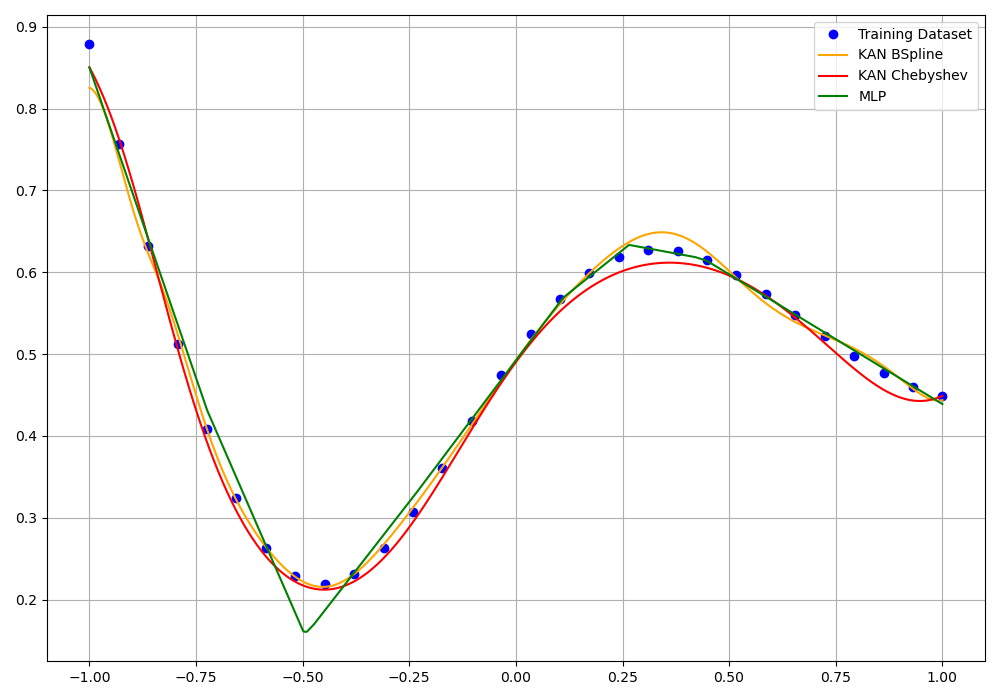
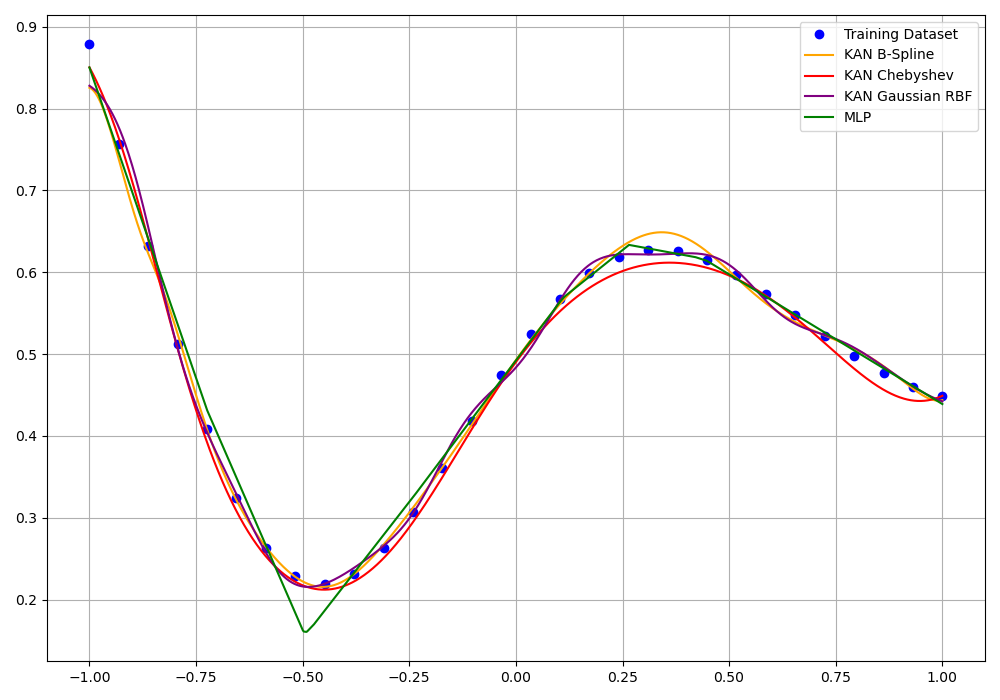
gaussian rbf added to examples

diff --git a/README.md b/README.md
@@ -12,7 +12,7 @@ This repository explores KANs by porting the KAN Python implementation from [ML 
 
 The fundamental innovation of KANs lies in their learnable activation functions on edges. The paper [KAN: Kolmogorov-Arnold Networks](https://arxiv.org/abs/2404.19756) suggests using a linear combination of B-Splines and the SiLU function. Subsequent research also recommends the use of Chebyshev polynomials among others. One key feature of these functions is that their derivatives are easy to calculate, which is crucial for gradient descent optimization. 
 
-| **Basis Function** | **Derivative** |
+| **Basis Functions** | **Derivatives** |
 |--------------------|----------------|
 | **B-Spline**       |                |
 | <img src="imgs/bspline_silu_basis.png" width="300"/> | <img src="imgs/bspline_silu_basis_der.png" width="300"/> |
@@ -50,7 +50,6 @@ Performance:
 ## Remarks
 
 - The current implementation covers only the basic KAN concepts. The paper [KAN: Kolmogorov-Arnold Networks](https://arxiv.org/abs/2404.19756) suggests various ways to enhance KANs, such as sparsification and grid extension, and has inspired extensive follow-up research. There is plenty of room for improvement in our implementation.
-- Additional basis functions for edges have been proposed, such as Gaussian Radial Basis Functions, as seen in [FastKAN](https://github.com/ZiyaoLi/fast-kan). We plan to add these and other basis functions to this repository.
 - While each edge in a KAN layer has individual weights, the basis functions are evaluated for each edge using the same input values from the previous layer. These function values can be effectively cached, resulting in approximately a 50% speedup. We have enabled this caching by default (`PHI_CACHING` parameter).
 - For simplicity, we use `tanh` to normalize the edge inputs to the range of spline grids. This technique is widely used by other performance-optimized KAN implementations (see, for example, [FasterKAN](https://github.com/AthanasiosDelis/faster-kan)).
 - Mojo is evolving quickly but is still quite young and limited in some areas, such as full support for dynamic polymorphism. Some of the boilerplate in our code is due to these limitations. We're looking forward to improve our implementation as Mojo continues to mature.
@@ -63,6 +62,8 @@ Performance:
 
 ## Changelog
   
+- 2024.06.14
+- Added Gaussian Radial Basis Functions (inspired by [FastKAN](https://github.com/ZiyaoLi/fast-kan))
 - 2024.06.13
   - Initial commit version 2
 
